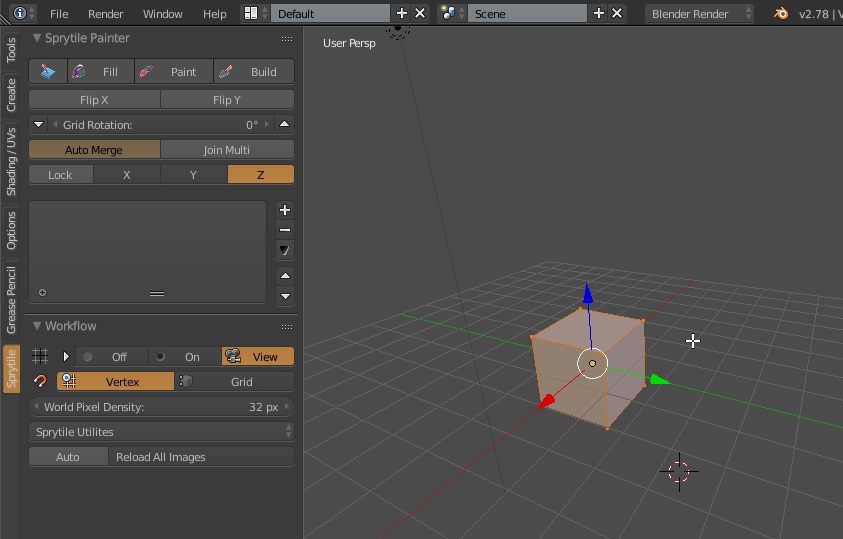
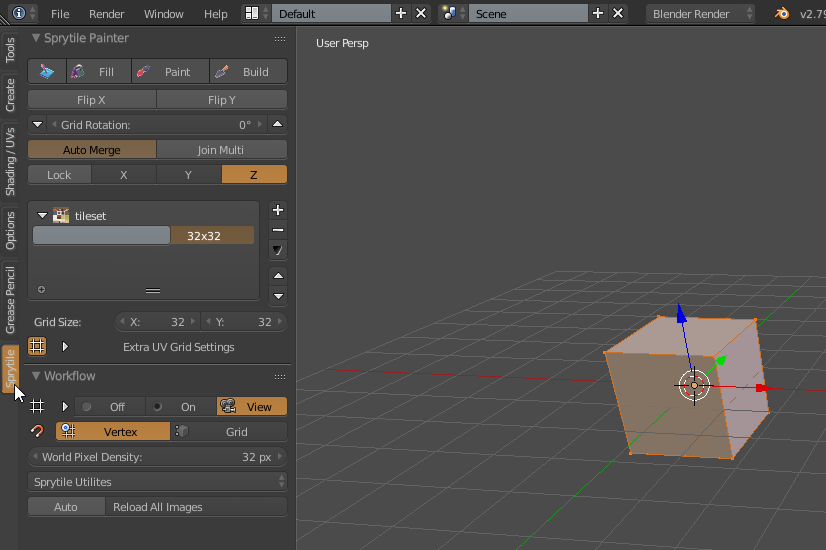
Basics documentation

diff --git a/docs/tutorial/sprytile-basics.md b/docs/tutorial/sprytile-basics.md
@@ -1,14 +1,121 @@
 # Sprytile Basics
 
-We'll now go into the basic steps of using Sprytile. If you're new to Blender, you might want to read the [Blender basics tutorial](tutorial/blender-basics.md) first.
+We'll now go into the basic steps of using Sprytile. If you're new to Blender, you might want to read the [Blender basics tutorial](blender-basics.md) first.
 
-## Material Setup
+We'll be using the following tileset image for this tutorial, but feel free to use your own tileset to follow along. Either download the tileset below or grab another tileset before continuing.
 
-The first thing we need to do is to setup the material
+![Tile Set](../img/tileset.png)
 
-## Tile Grid
+For this tutorial, we'll start over from a new Blender scene. Open Blender and you will see the default scene. If you already have Blender open, you may want to go to `File>New` to start over with a new scene. 
+
+Make sure that the mesh object selected by right clicking on the cube in the scene. Now check that Blender is in Object Mode and go to the Sprytile tab in the tool shelf.
+
+## Tileset Setup
+
+The first thing we need to do is to setup the material and load the tileset texture into Blender. With the cube mesh object selected, go to the Sprytile tab, press the `Load Tileset` button under Material Setup.
+
+Choose the texture of the tileset in the file selector that pops up and the material and texture will automatically be setup, ready for use with Sprytile.
+
+!!! note "Pixel art material"
+
+    The material setup here is for pixel art style textures. Advanced users of Blender may want to modify the material for other purposes.
+
+## Sprytile Tools
+
+The majority of Sprytile's tools are accessed under Blender's `Edit Mode`. With the cube selected, enter edit mode and open the tool shelf to the Sprytile tab.
+
+If you do not see the tool shelf in the left of the 3D view, press `T` to show the tool shelf. Expand the tool shelf if it is too cramped. 
+
+![Sprytile Edit Tools](../img/edit-tool-shelf.png)
+
+!!! tip "World Pixel Density"
+
+    If you're not using the provided tile set, you might want to change the world pixel density setting. This sets how many pixels fit inside one Blender unit. The provided tile set is based around 32x32 pixel tiles.
+
+!!! tip "Backface Culling"
+
+    It is recommended to turn off backface culling so you can see the direction the faces are being built in. This is accessible in the right hand panel of the viewport (press 'n' if it is not visible), under the shading foldout.
+
+### Reset Sprytile
+
+Before going further, Sprytile is still new software and you may encounter some bugs. If you experience a crash, try to `Reset Sprytile` under the utilities dropdown.
+
+![Reset](../img/reset-sprytile.png)
 
 ## Build Tool
+
+The build tool creates mesh faces that are UV mapped to the selected tiles. Open Sprytile's tile map mode by pressing the `Build` button. You will notice the tile selection UI popup on the lower right corner of the 3D view, indicating that tile map mode is active.
+
+Exit tile map mode by pressing the `Build` button again or by pressing the `Esc` key. Pressing `Ctrl + Shift + Space` on the keyboard will activate tile map mode again.
+
+![Tile map mode](../img/tile-map-mode.png)
+
+!!! note "Tile Selection UI"
+
+    The tile selection UI lets you pick the tile you will be painting with. Zoom the UI by hovering over it and scrolling your mouse wheel up or down.
+
+### Tile Mapping
+
+Let's familiarize ourselves with Sprytile's workflow by creating something.
+
+First, delete the existing vertices of the selected mesh so we have a blank slate. Do this by pressing `a` to select all, and then pressing `x` and selecting `Vertices`.
+
+The workflow of Sprytile revolves around Blender's 3D cursor and the direction the 3D view is facing.
+
+The 3D cursor is the center of the tile grid when you're painting, and the global axis that the view is facing is the surface you will be painting on.
+
+Let's start by reseting the 3D cursor to the center of the scene by pressing `Shift + S` and selecting `Cursor to Center`.
+
+![Paint Prepare](../img/paint-prepare.png)
+
+With the tile selection UI open, try rotating the 3D view camera around. Hold down the middle mouse button while the mouse cursor is in the 3D view and move the mouse.
+
+![Camera Pan](../img/camera-pan.gif)
+
+Notice that a smaller grid appears around the blender 3D cursor. This is called the work plane and indicates the plane that you'll be building on.
+
+By default, the work plane appears when the view camera is panned. If it does not, [check the settings](../advanced-features/#work-plane-cursor).
+
+Tilt the camera downwards so that the work plane is aligned to the ground.
+
+In the tile selection UI, choose the grass tile and paint around the 3D cursor. Notice how the tile grid is centered around the 3D cursor and the painted tiles appear on the ground.
+
+![Paint Z-axis](../img/paint-1.png)
+
+Now pan the camera up so the work plane is vertical. Pick a wall tile and paint with the tile.
+
+![Paint Y-axis](../img/paint-2.png)
+
+!!! info "Axis Indicator"
+
+    While tile map mode is activated, the axis indicator in the Sprytile Painter panel will update to show you which axis the tiles will be painted on.
+
+    ![Axis Indicator](../img/axis-indicator.png)
+
+Since the 3D cursor is an important part of the Sprytile workflow, you can quickly reposition the cursor to the vertex nearest the mouse cursor by holding down the `S` key while in tile map mode. To make navigation easier, pressing the `W` key will center the 3D view around the cursor.
+
+![Cursor Snap](../img/cursor-snap.gif)
+
+Try reorienting the 3D view to face the last axis you have yet to paint on, then moving the 3D cursor by holding down the `S` key and moving your mouse. Paint on that axis. Note that the center of the grid has moved to where you have positioned the cursor.
+
+![Paint X-Axis](../img/paint-3.png)
+
+### Tile Grids
+
+Now that you know how to build with Sprytile, let's focus on tile grids. Tilesets might be made up of tiles in different scales. To account for this, Sprytile allows you to work with grids of different sizes. This part of the Sprytile panel allows you to create and organize the grid settings used with the tile map.
+
+Press the `+` button at the panel and select the newly created entry. The settings for this new tile grid can be changed in the boxes below. For this tile grid, lets change it to a 16 x 16 tile size.
+
+![Tile Grid Panel](../img/tile-grid-panel.png)
+![Tile Grid Editing](../img/tile-grid-edit.png)
+
+### Flip/Rotate Tiles
+
+## Poly Management
+
+### Auto Merge
+
+### Join Multi
 
 ## Paint Tool
 

diff --git a/docs/tutorial/blender-basics.md b/docs/tutorial/blender-basics.md
@@ -22,11 +22,11 @@ The window used to interact with the 3D scene we're working with. This where we'
 
 Technically part of the 3D view, the tool shelf is a convenient place for Blender's various tools. It is also where we'll interact with Sprytile's tools when Sprytile is installed.
 
-If the tool shelf disappears while you're working with Blender, press the `T` key while your mouse is in 3D view to show it again.
+If the tool shelf disappears while you're working with Blender, press the `T` key while your mouse is over the 3D view to show it again.
 
 ### Properties View
 
-The properties panel is used for setting the data for Blender's various components. For Sprytile, we'll only be concerned with the Material and Texture tabs.
+The properties panel is used for setting the data for Blender's various components. We will not use this with Sprytile but it is useful to know where it is.
 
 ### Outliner
 
@@ -38,15 +38,15 @@ Now we'll learn how to move around in the 3D view. This is important to learn as
 
 !!! note "No Middle Mouse Button?"
 
-	If you do not have a middle mouse button, follow the [instructions in this video](https://www.youtube.com/watch?v=qdqEYfSb6t8) to enable three button mouse emulation, and add holding down the `Alt` key to the following instructions.
+	If you do not have a middle mouse button, follow the [instructions in this video](https://www.youtube.com/watch?v=qdqEYfSb6t8) to enable three button mouse emulation, and hold down the `Alt` key in the following instructions.
 
 When you want to move around in 3D view, the mouse cursor must start from inside the 3D view before holding down the middle mouse button. Releasing the middle mouse button will stop moving the 3D view.
 
 ### Rotation/Panning
 
-Hold down the `middle mouse` button and move the mouse around. This rotates the view around a focus point. The focus point discussed later in the tutorial.
+Hold down the `middle mouse` button and move the mouse around. This rotates the view around a focus point. The focus point will be discussed later in the tutorial.
 
-### Horizontal/Vertical
+### Horizontal/Vertical Movement
 
 1. Hold down the `Shift` key
 2. Hold down the `middle mouse` button
@@ -54,17 +54,17 @@ Hold down the `middle mouse` button and move the mouse around. This rotates the 
 
 This moves the camera along horizontal and vertical axis that the camera is facing.
 
-### Forward/Backward
+### Forward/Backward Movement
 
 1. Hold down the `Ctrl` key
 2. Hold down the `middle mouse` button
 3. Move the mouse up and down
 
-When the mouse is moved upwards, the camera moves forward towards the direction it is facing, and reverses when the mouse moves down.
+When the mouse is moved upwards, the camera moves forward towards the direction it is facing, and reverses when the mouse is moved down.
 
 ### Orthogonal Views
 
-It's sometimes useful to view the scene from the top, side, or front views. These are called orthogonal views, and can easily be accessed from Blender by using the number pad, the grid of numbers on the right side of the keyboard.
+It's sometimes useful to view the scene from the top, side, or front views. These are called orthogonal views and can easily be accessed from Blender by using the number pad, the grid of numbers on the right side of the keyboard.
 
 * `Numpad 1`: Front view
 * `Numpad 3`: Right view
@@ -72,7 +72,7 @@ It's sometimes useful to view the scene from the top, side, or front views. Thes
 
 Holding `Ctrl` and pressing the above numbers will give a view from the opposite side.
 
-If your keyboard does not have a numpad, or are looking for a supported alternative workflow check out the officially supported [Pie Menu Addon](https://www.youtube.com/watch?v=ioYWPmnhNtY).
+If your keyboard does not have a number pad, or are looking for a supported alternative workflow check out the officially supported [Pie Menu Addon](https://www.youtube.com/watch?v=ioYWPmnhNtY).
 
 ### Orthographic Toggle
 

diff --git a/docs/tutorial/tilesets.md b/docs/tutorial/tilesets.md
@@ -2,11 +2,11 @@
 
 Before starting to use Sprytile we'll discuss tilesets, which are an important concept for Sprytile.
 
-Tilesets are image files containing multiple tiles. In old games, these were used to build 2D levels. In Sprytile, we use the same concept but to build in 3D.
+Tilesets are image files containing multiple tile sprites. In old games, these were used to build 2D levels. In Sprytile, we use the same concept but to build in 3D.
 
 You can either create a tileset from scratch or use existing asset packs. Either way, you should be aware of some limitations with using images as textures in 3D. 
 
-## Power of Two textures
+## Power of Two Texture Sizes
 
 When working with textures in 3D, it is recommended that textures should be in **Power of Two** sizes.
 
@@ -23,7 +23,16 @@ Blender's internal rendering engine is capable of handling NPOT textures, but if
 
 ## Using Asset Packs
 
-By using [tilegrid settings](../advanced-features#additional-tile-grid-settings), Sprytile can use existing 2D tilesets assets.
+Asset packs are textures that are available for free or for sale that you can use to build a game with. Most tileset assets were created with 2D in mind, but it is still possible to modify or use them as is in Sprytile.
 
-However, many of these files are not designed with 3D in mind and may not come in power of two sizes.
+By using [tilegrid settings](../advanced-features#additional-tile-grid-settings), Sprytile can use existing 2D tilesets assets. You will have to adjust these settings according to the tileset you are using.
 
+However, these assets may not be designed with 3D in mind and the textures might not come in power of two sizes.
+
+### Modifying NPOT Assets
+
+If you will be using your models in a 3D engine that does not support NPOT textures, you will have to modify the textures that come from NPOT assets.
+
+The easiest way to do this is to expand the canvas size so that it becomes a power of two size. The downside to this method is the waste of texture space in 3D engines.
+
+The recommended method that takes more work is to remove tiles from the tileset that will not be used, or to split the tileset into multiple textures that are power of two sized.

diff --git a/docs/tutorial/install.md b/docs/tutorial/install.md
@@ -10,7 +10,7 @@ In Blender, open User Preferences by going to `File > User Preferences`. Go to t
 
 ![Install Addon](../img/install-addon.png)
 
-## Settings Setup
+## Settings Changes
 
 We now need to make some changes to the Blender settings after installing Sprytile.
 
@@ -22,10 +22,13 @@ To make sure Blender shows pixel art textures correctly, we have to turn off mip
 
 ![Preferences Mipmaps](../img/prefs-mipmap.png)
 
+!!! note
+
+	If you are not using Sprytile for pixel art style textures, you may skip this step. If you will be using Blender for non pixel art textured purposes in the future, remember to turn Mipmaps back on in the settings.
+
 We're now done with installing Sprytile and changing the settings to be optimal for pixel art style textures.
 
 ## Save User Settings
 
 Before closing the preferences window, make sure to press the `Save User Settings` button on the bottom left corner to make sure that our new settings are saved for the next time Blender is opened.
 
-If you will be using Blender for non pixel art textured purposes in the future, remember to turn Mipmaps back on in the settings.
